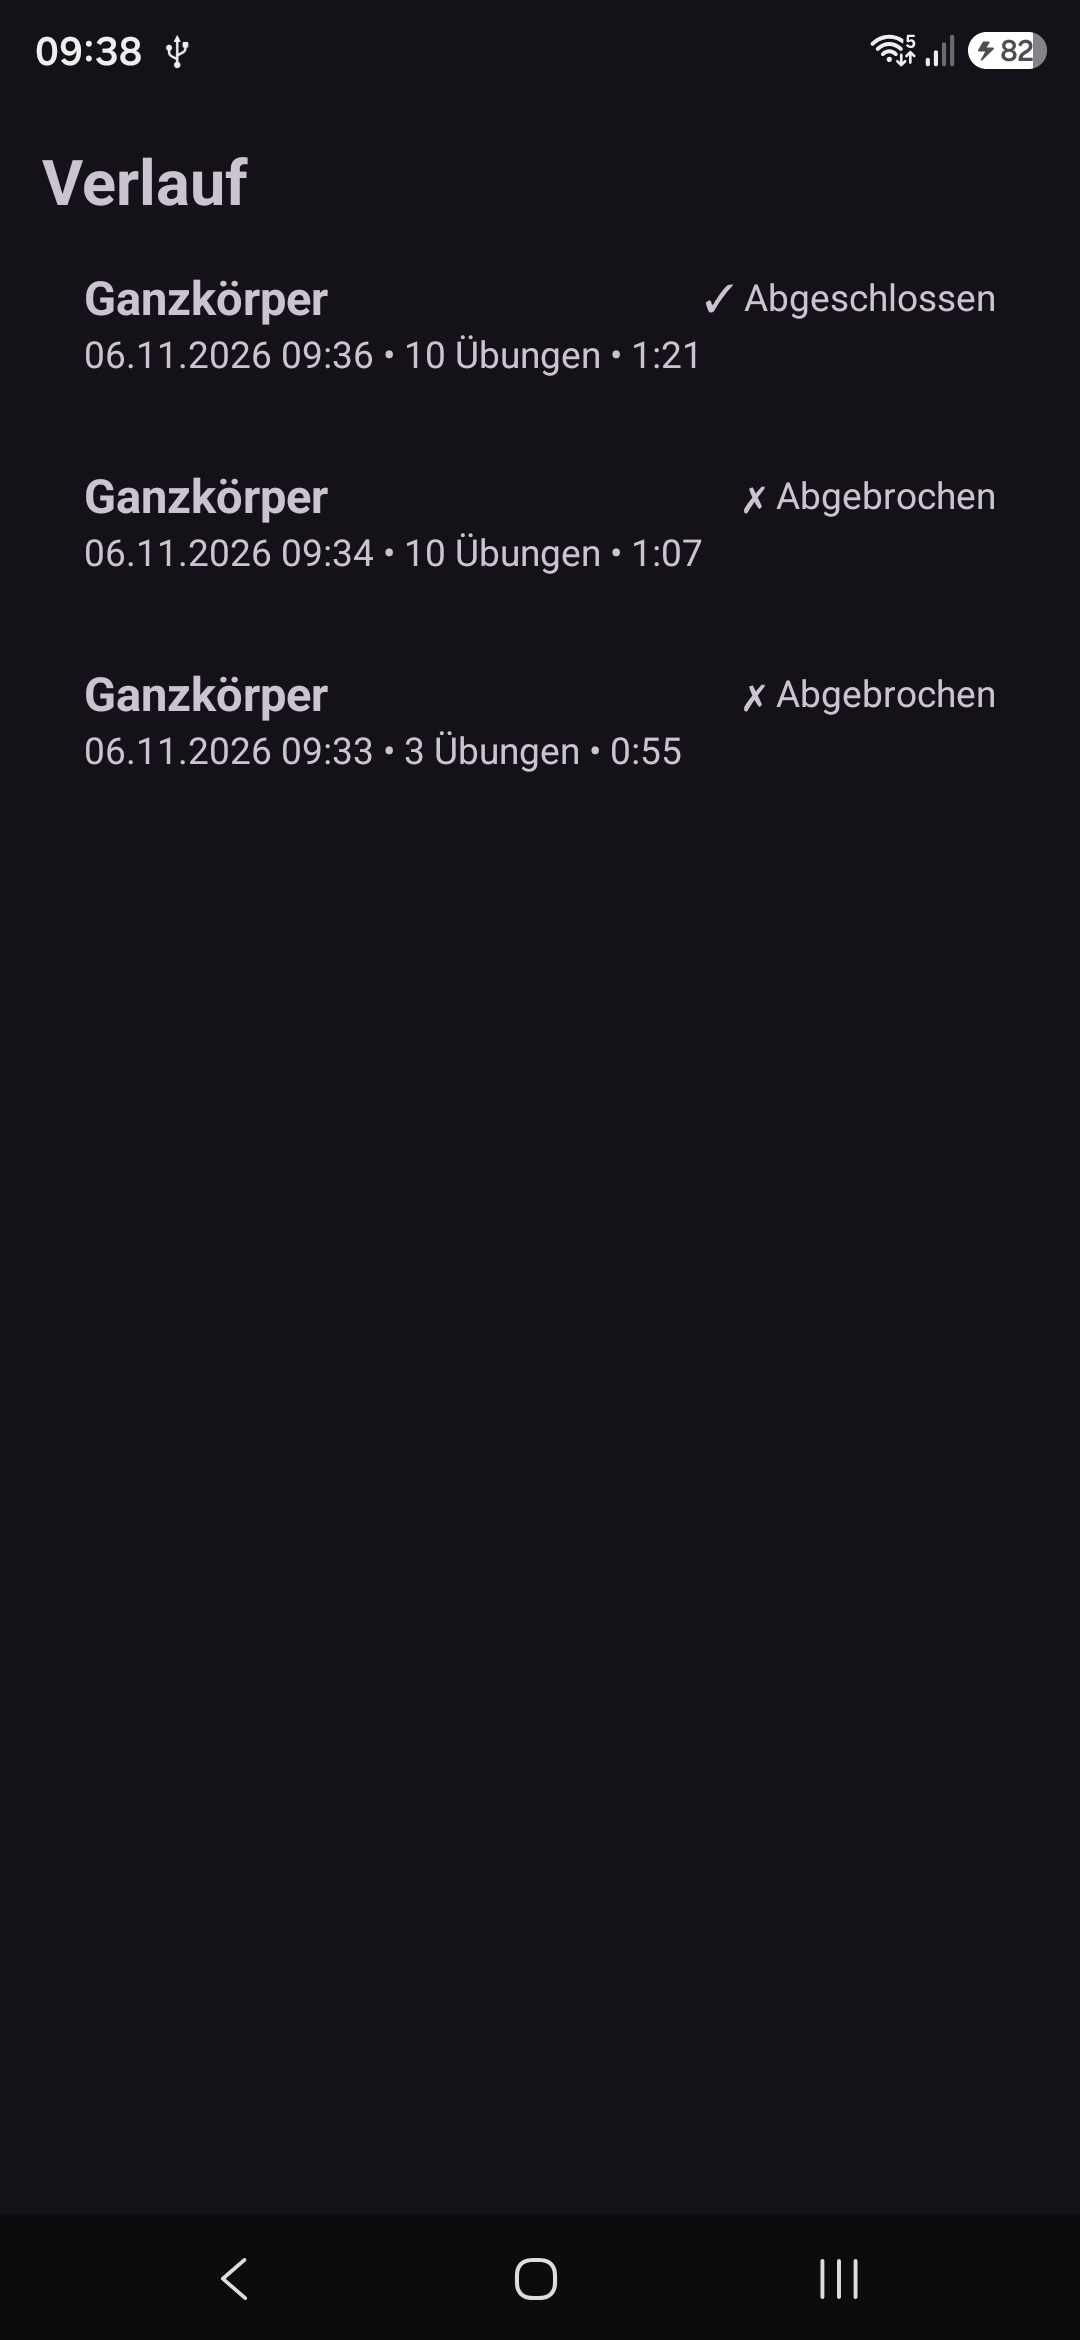
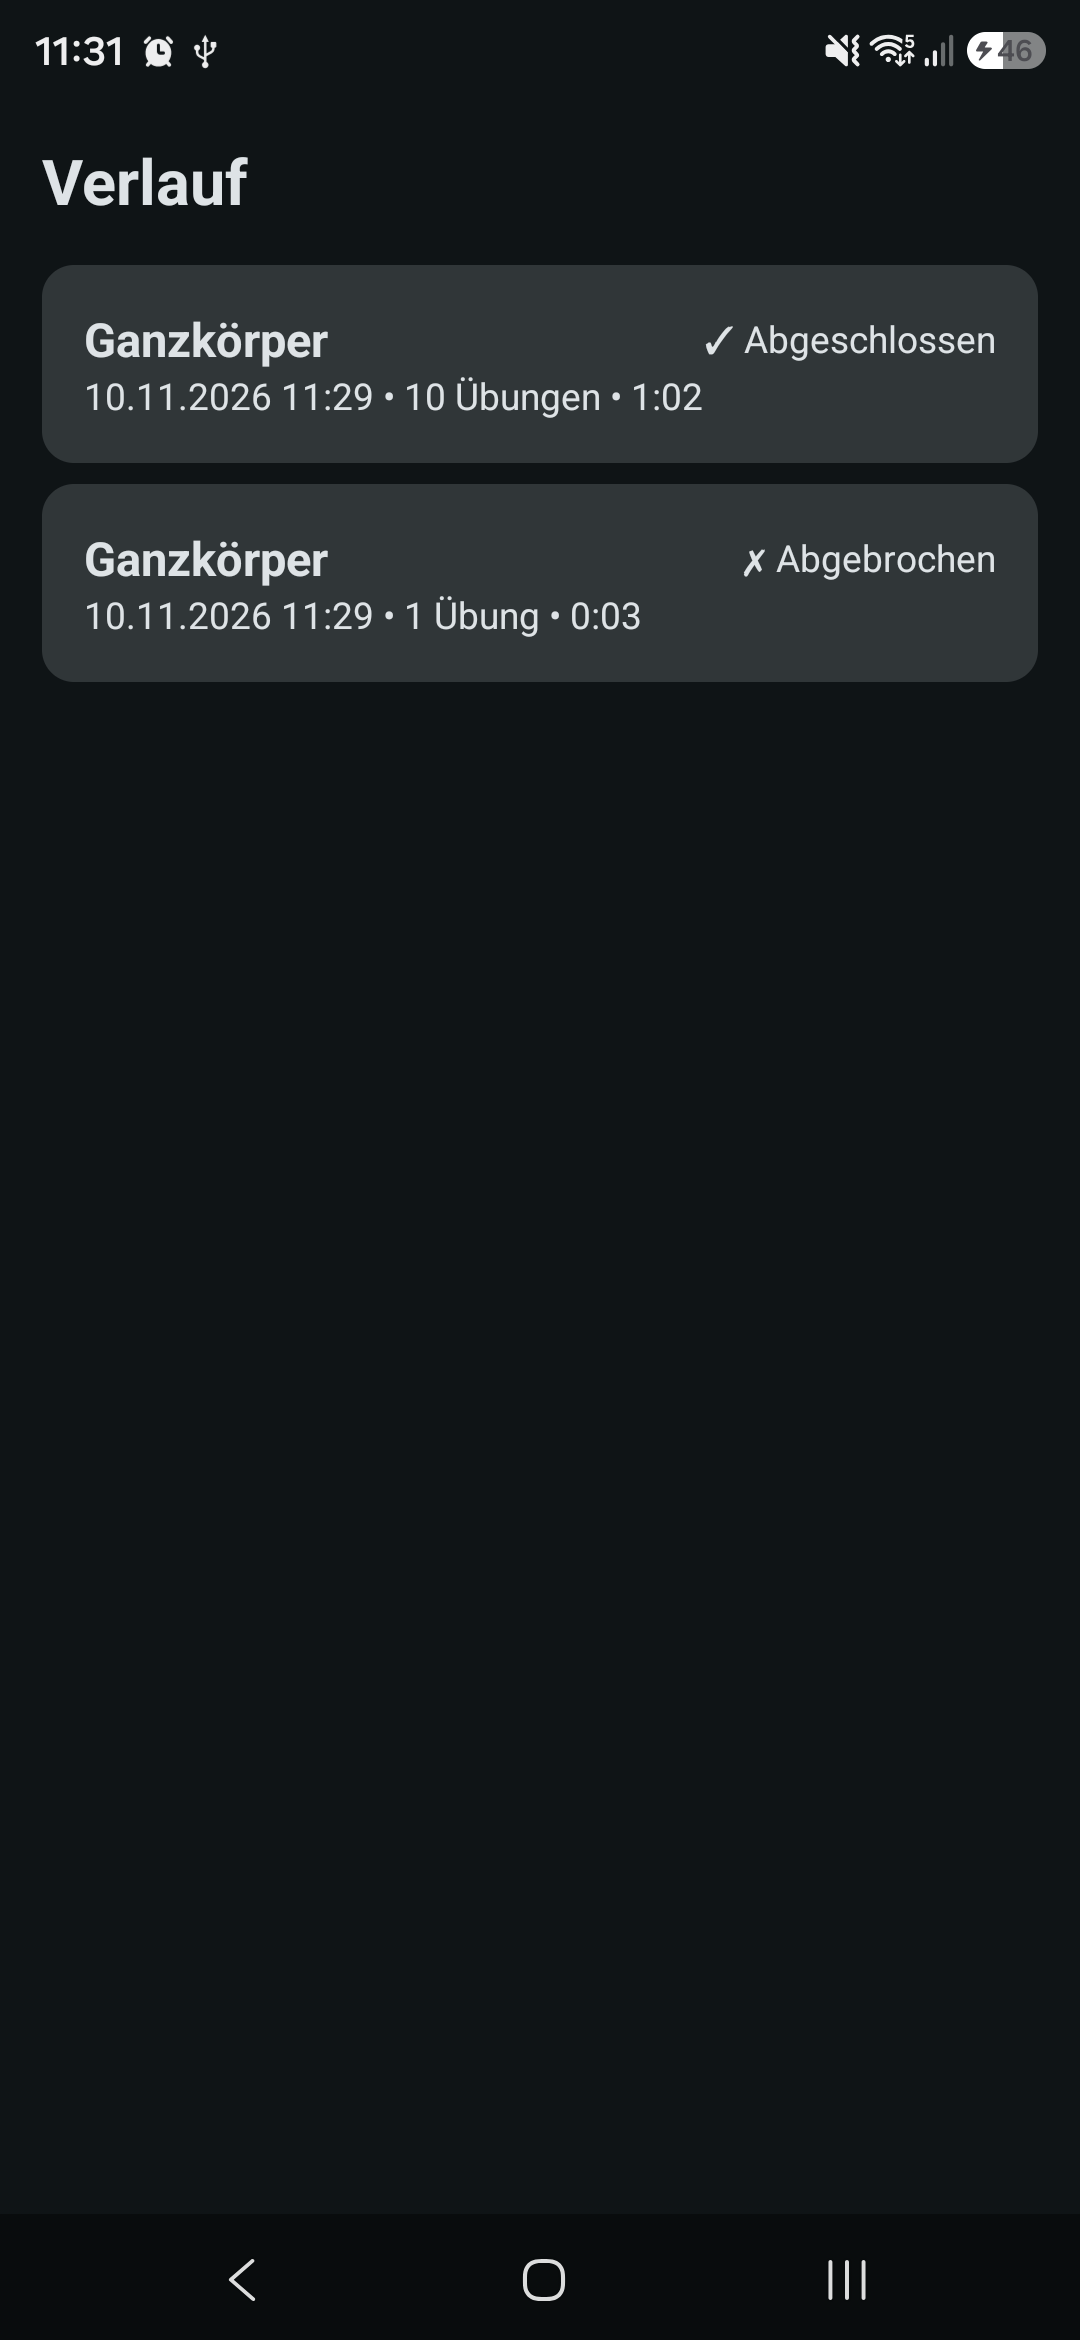
Renew the README screenshots
Taken from a release build with the starter set, closing the last open part of #33.

diff --git a/README.md b/README.md
@@ -8,7 +8,7 @@ Room — no account, no backend.
 
 | Home | Workout editor | Player | History |
 | :---: | :---: | :---: | :---: |
-| <img src="docs/screenshots/home.png" width="190" alt="Home screen"> | <img src="docs/screenshots/workout-edit.png" width="190" alt="Editing the starter workout"> | <img src="docs/screenshots/player.png" width="190" alt="Player running the first exercise"> | <img src="docs/screenshots/history.png" width="190" alt="History with completed and aborted sessions"> |
+| <img src="docs/screenshots/home.png" width="190" alt="Home screen"> | <img src="docs/screenshots/workout-edit.png" width="190" alt="Editing the starter workout"> | <img src="docs/screenshots/player.png" width="190" alt="Player running an exercise"> | <img src="docs/screenshots/history.png" width="190" alt="History with completed and aborted sessions"> |
 
 ## Features
 
